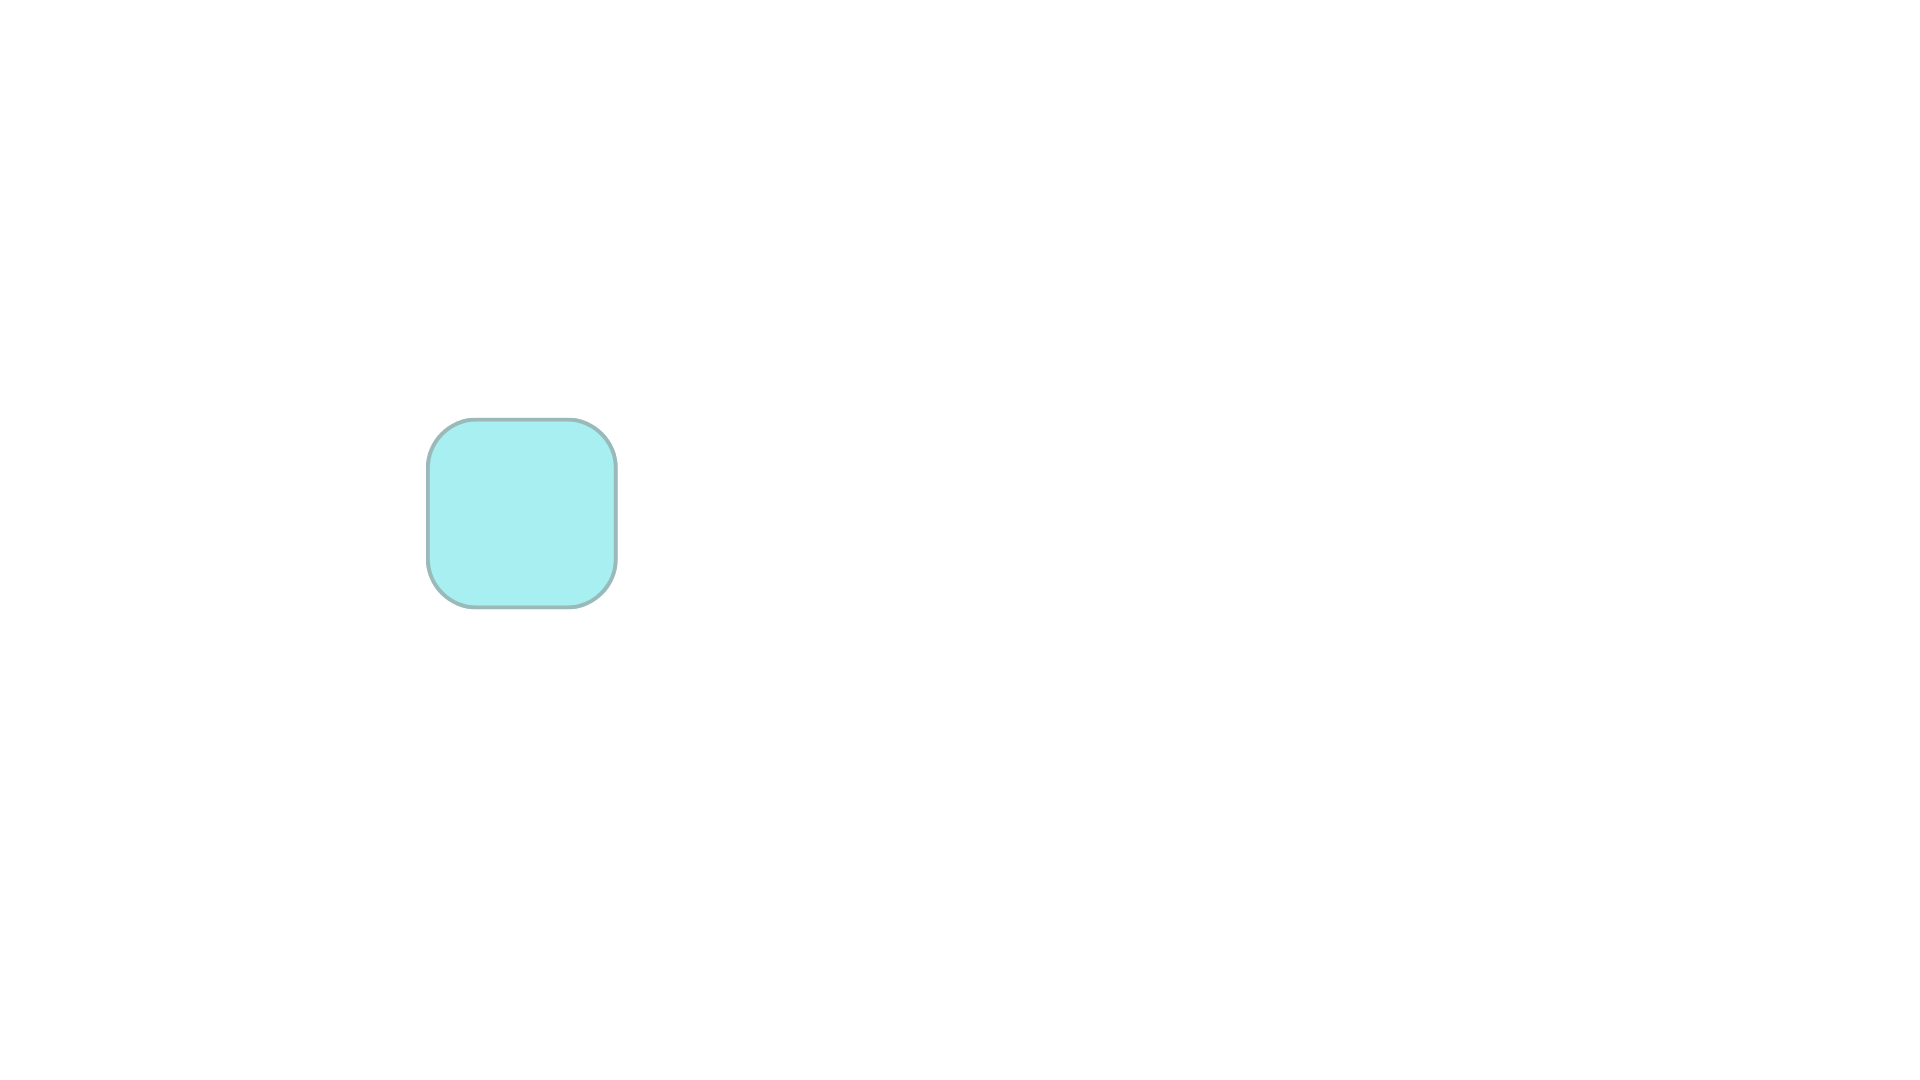
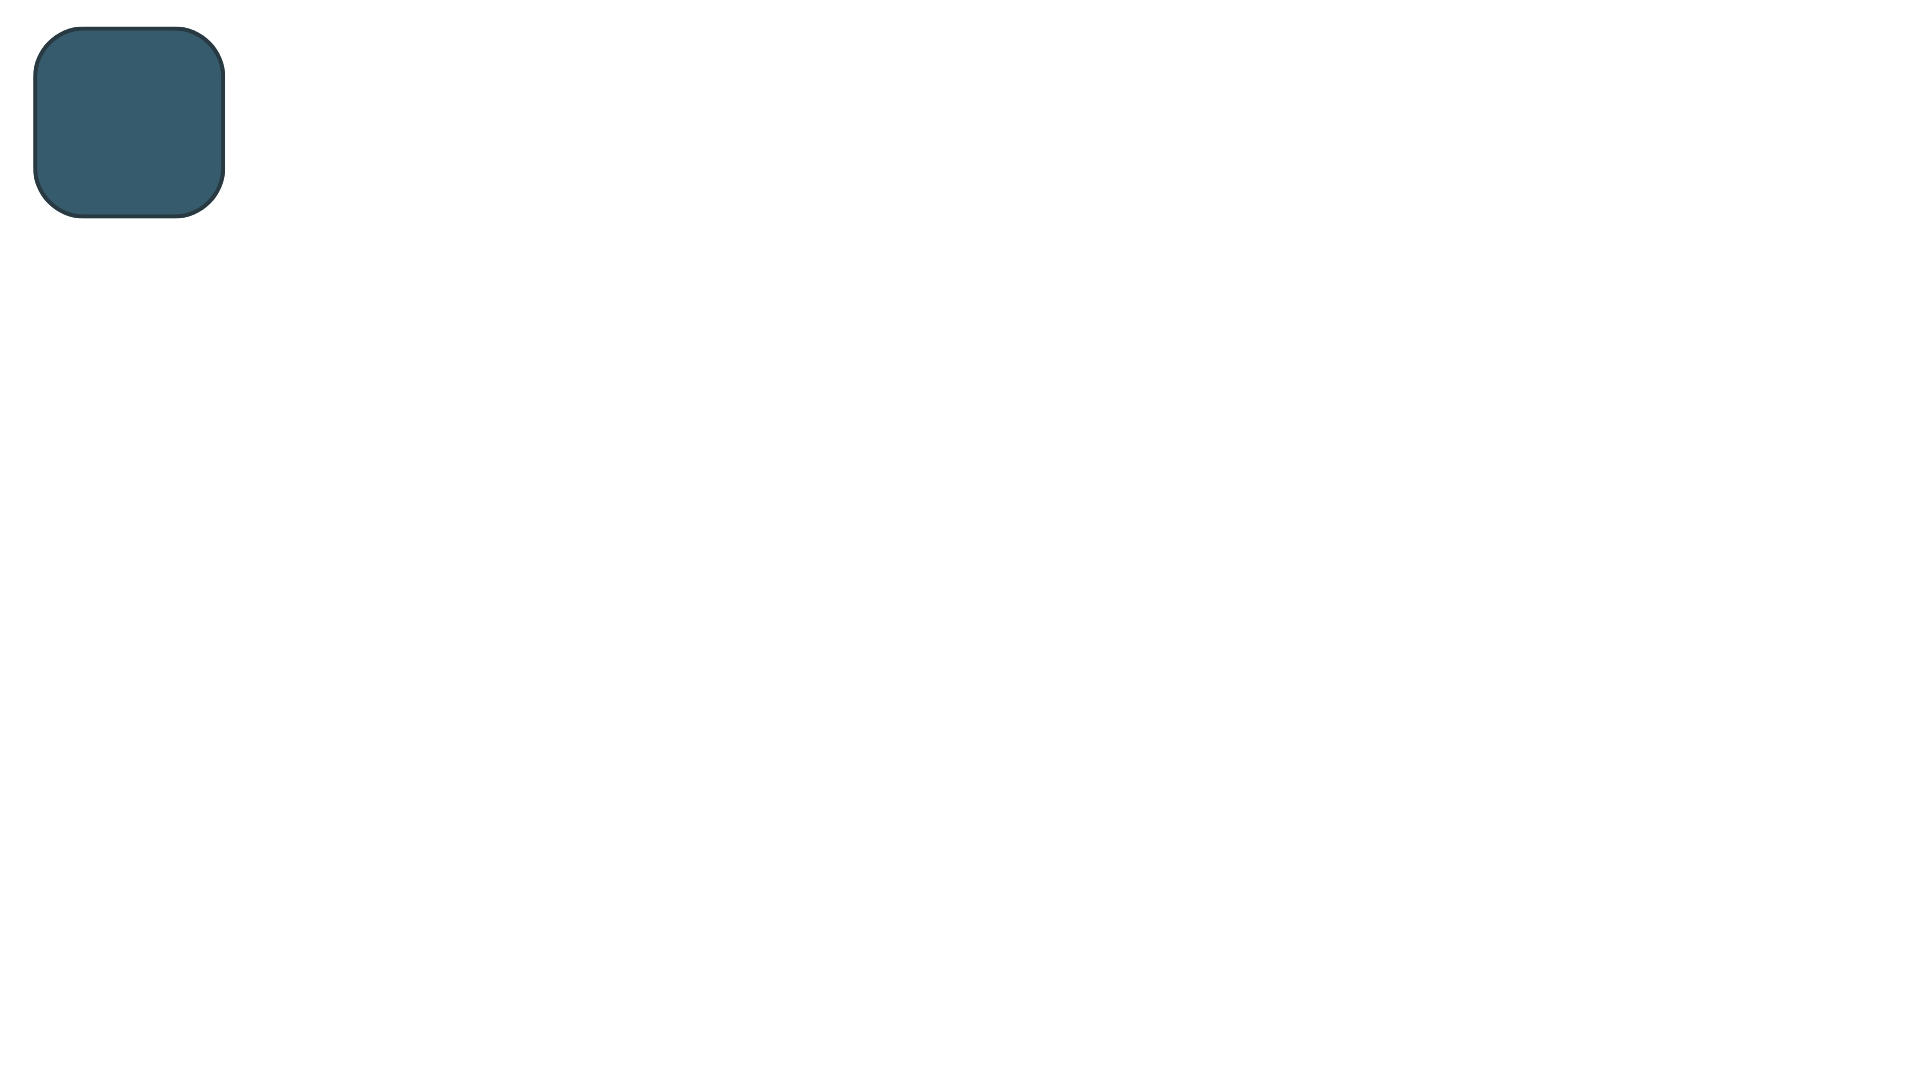
particle system wip 3

Changed region(s): [[0.2188, 0.3667, 0.3438, 0.5806], [0.0, 0.0, 0.125, 0.2139]]

diff --git a/Assets/Scripts/Board.cs b/Assets/Scripts/Board.cs
@@ -27,7 +27,7 @@ public class Board : MonoBehaviour
     GameObject light3;
     GameObject gameOverWindow;
     public Tilemap tilemap { get; set; }
-    bool[,] isOccupied = new bool[8, 8];
+
     public Sprite[] tileSprites = new Sprite[4];
 
     public GameObject particlePrefab;
@@ -47,6 +47,15 @@ public class Board : MonoBehaviour
     [Header("Board Dimensions")]
     public Vector3Int boardSize = new Vector3Int(8, 8, 0);
     public Vector3Int boardOrigin = new Vector3Int(0,0,0);
+
+    bool[,] isOccupied = new bool[8, 8];
+    public Color32[] tileColors = {
+        new Color32(54, 91, 109, 255),
+        new Color32(51, 129, 165, 255),
+        new Color32(108, 146, 134, 255),
+        new Color32(65, 193, 186, 255),
+        new Color32(167, 239, 241, 255)
+    };
 
     private void Start()
     {
@@ -73,6 +82,7 @@ public class Board : MonoBehaviour
         SpawnPiece(spawnPosition1);
         SpawnPiece(spawnPosition2);
         SpawnPiece(spawnPosition3);
+
     }
 
 
@@ -232,6 +242,7 @@ public class Board : MonoBehaviour
     {
         List<int> fullRows = new List<int>();
         List<int> fullCols = new List<int>();
+        HashSet<Vector3Int> cellsToClear = new HashSet<Vector3Int>();
 
         //get rows
         for (int y = boardOrigin.y - boardSize.y/2; y < boardOrigin.y + boardSize.y/2; y++) {
@@ -246,49 +257,58 @@ public class Board : MonoBehaviour
         //clear rows
         foreach (int y in fullRows) {
             for (int x = boardOrigin.x - boardSize.x/2; x < boardOrigin.x + boardSize.x/2; x++) {
-                Vector3Int cellPosition = new Vector3Int(x, y, 0);
-                
-                //get color from tilemap
-                TileBase tileBase = tilemap.GetTile(cellPosition);
-                Color color = Color.white;
-
-                Tile tile = tileBase as Tile;
-                Texture2D tex = tile.sprite.texture;
-
-                Rect rect = tile.sprite.textureRect;
-
-                int px = Mathf.FloorToInt(rect.x + rect.width / 2);
-                int py = Mathf.FloorToInt(rect.y + rect.height / 2);
-
-                color = tex.GetPixel(px, py);
-
-                Vector3 worldPos = tilemap.GetCellCenterWorld(cellPosition);
-
-                //create particle system
-                GameObject particleObj = Instantiate(particlePrefab, cellPosition, Quaternion.identity);
-
-                ParticleSystem ps = particleObj.GetComponent<ParticleSystem>();
-                var main = ps.main;
-                main.startColor = color;
-
-                Debug.Log ("Vector pos: " + cellPosition); 
-                Debug.Log("(" + x + " ," + y + ")");
-
-                Destroy(particleObj, 2f);
-
-                tilemap.SetTile(new Vector3Int(x, y, 0), null);
-                isOccupied[x + boardSize.x/2, y + boardSize.y/2] = false;
+                cellsToClear.Add(new Vector3Int(x,y,0));
             }
         }
 
         //clear columns
         foreach (int x in fullCols) {
-            for (int y = boardOrigin.y - boardSize.y/2; y < boardOrigin.y + boardSize.y/2; y++) {
-                tilemap.SetTile(new Vector3Int(x, y, 0), null);
-                isOccupied[x + boardSize.x/2, y + boardSize.y/2] = false;
+            for (int y = boardOrigin.y - boardSize.y/2; y < boardOrigin.y + boardSize.y/2; y++)
+            {
+                cellsToClear.Add(new Vector3Int(x,y,0));
             }
         }
-        return fullRows.Count + fullCols.Count; 
+
+        foreach (Vector3Int cellPosition in cellsToClear)
+        {
+            int x = cellPosition.x + boardSize.x/2;
+            int y = cellPosition.y + boardSize.y/2;
+            
+            Vector3 worldPos = tilemap.GetCellCenterWorld(cellPosition);
+
+            TileBase tileBase = tilemap.GetTile(cellPosition);
+
+            Tile tile = tileBase as Tile;
+            string spriteName = tile.sprite.name;
+
+            Color color = Color.white;
+
+            if (spriteName == "2_0")
+                color = tileColors[0];
+            else if (spriteName == "3_0")
+                color = tileColors[1];
+            else if (spriteName == "4_0")
+                color = tileColors[2];
+            else if (spriteName == "5_0")
+                color = tileColors[3];
+            else if (spriteName == "6_0")
+                color = tileColors[4];
+
+            //create particle system
+            GameObject particleObj = Instantiate(particlePrefab, worldPos, Quaternion.identity);
+
+                //set color of sprite
+            ParticleSystem ps = particleObj.GetComponent<ParticleSystem>();
+            var main = ps.main;
+            main.startColor = color;
+
+            Destroy(particleObj, 3f);
+            
+            isOccupied[x, y] = false;
+            tilemap.SetTile(new Vector3Int(x - boardSize.x/2, y - boardSize.y/2, 0), null);
+            Debug.Log (x  + " " + y);
+        }
+        return fullCols.Count + fullRows.Count;
     }
 
     public void UpdateScore(int tileScore, int linesCleared, Vector3Int position)
